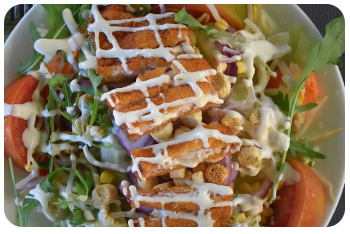
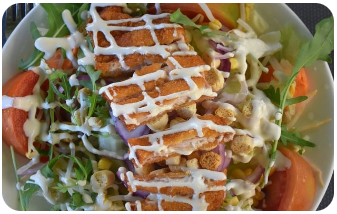
Página inicial finalizada
Tamanho das imagens dos cards estavam diferentes. Foram padronizados
Escolhido efeito vignette para todos os cards

diff --git a/TheOdinProject/4_Odin-Receitas-HTML+CSS/index.html b/TheOdinProject/4_Odin-Receitas-HTML+CSS/index.html
@@ -18,11 +18,11 @@
         <div class="div-separacao"></div>
         <div class="receitas">   <!-- div receitas -->
             <div class="img-card">  <!-- salada caesar -->
-                <a class="caesar" href="receitas/SaladaCaesar/SaladaCaesar.html"><img src="receitas/SaladaCaesar/caesar-thumb-grey.png" alt="Salada Caesar"></a>
+                <a class="caesar" href="receitas/SaladaCaesar/SaladaCaesar.html"><img src="receitas/SaladaCaesar/caesar-thumb-vig.png" alt="Salada Caesar"></a>
                 <a class="link-texto-card" href="receitas/SaladaCaesar/SaladaCaesar.html"><h2 class="texto-card">Salada</h2></a>
             </div>
             <div class="img-card">  <!-- strogonoff -->
-                <a class="strogonoff" href="receitas/Strogonoff/strogonoff.html"><img src="receitas/Strogonoff/strogonoff-thumb-blur.png" alt="Strogonoff"></a>
+                <a class="strogonoff" href="receitas/Strogonoff/strogonoff.html"><img src="receitas/Strogonoff/strogonoff-thumb-vig.png" alt="Strogonoff"></a>
                 <a class="link-texto-card" href="receitas/Strogonoff/strogonoff.html"><h2 class="texto-card">Strogonoff</h2></a>
             </div>
             <div class="img-card">  <!-- pudim -->

diff --git a/TheOdinProject/4_Odin-Receitas-HTML+CSS/style.css b/TheOdinProject/4_Odin-Receitas-HTML+CSS/style.css
@@ -44,7 +44,7 @@ body {
 
 .texto-card{
     position: absolute;
-    top: 39%;
+    top: 29%;
     left: 33%;
     background-color: rgba(0, 0, 0, 0.7);
     /*background-color: black;*/
